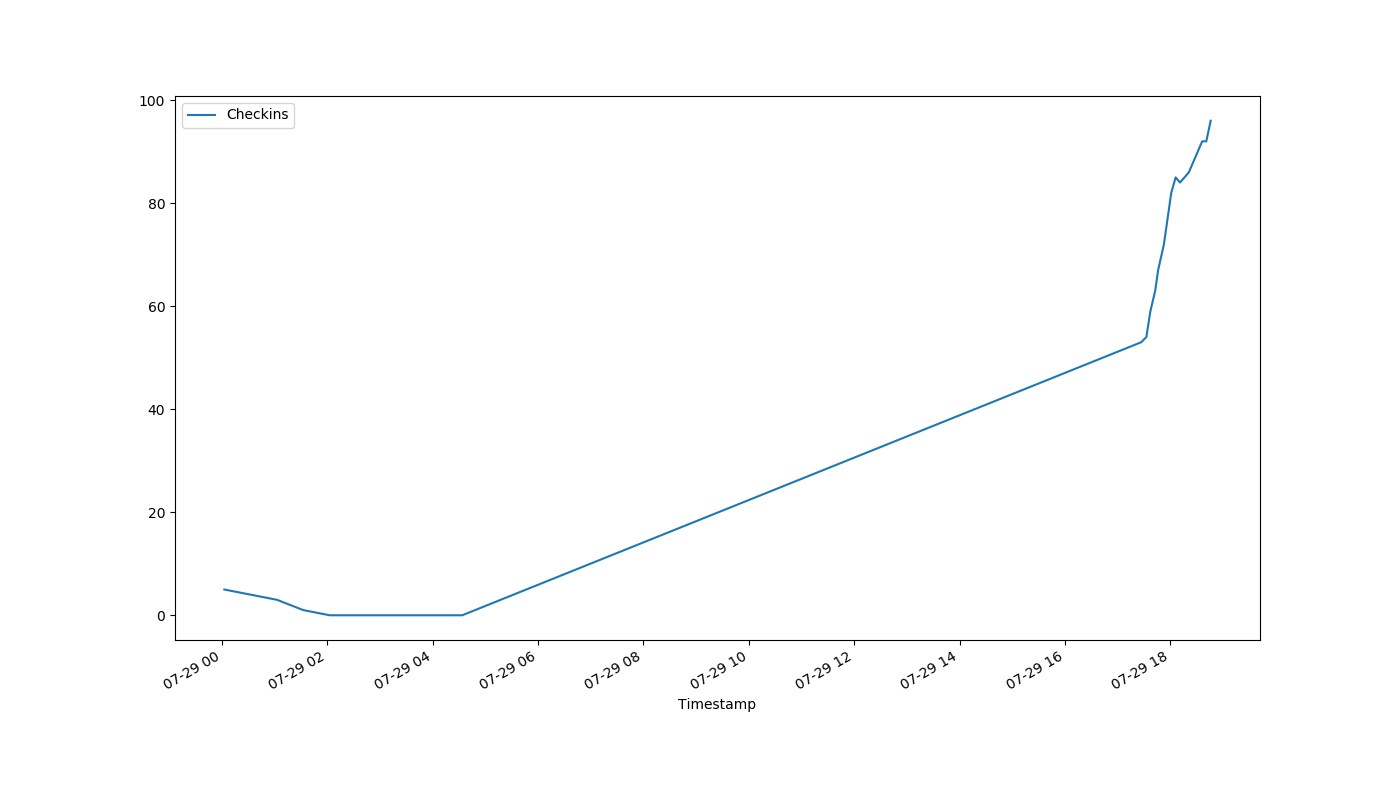
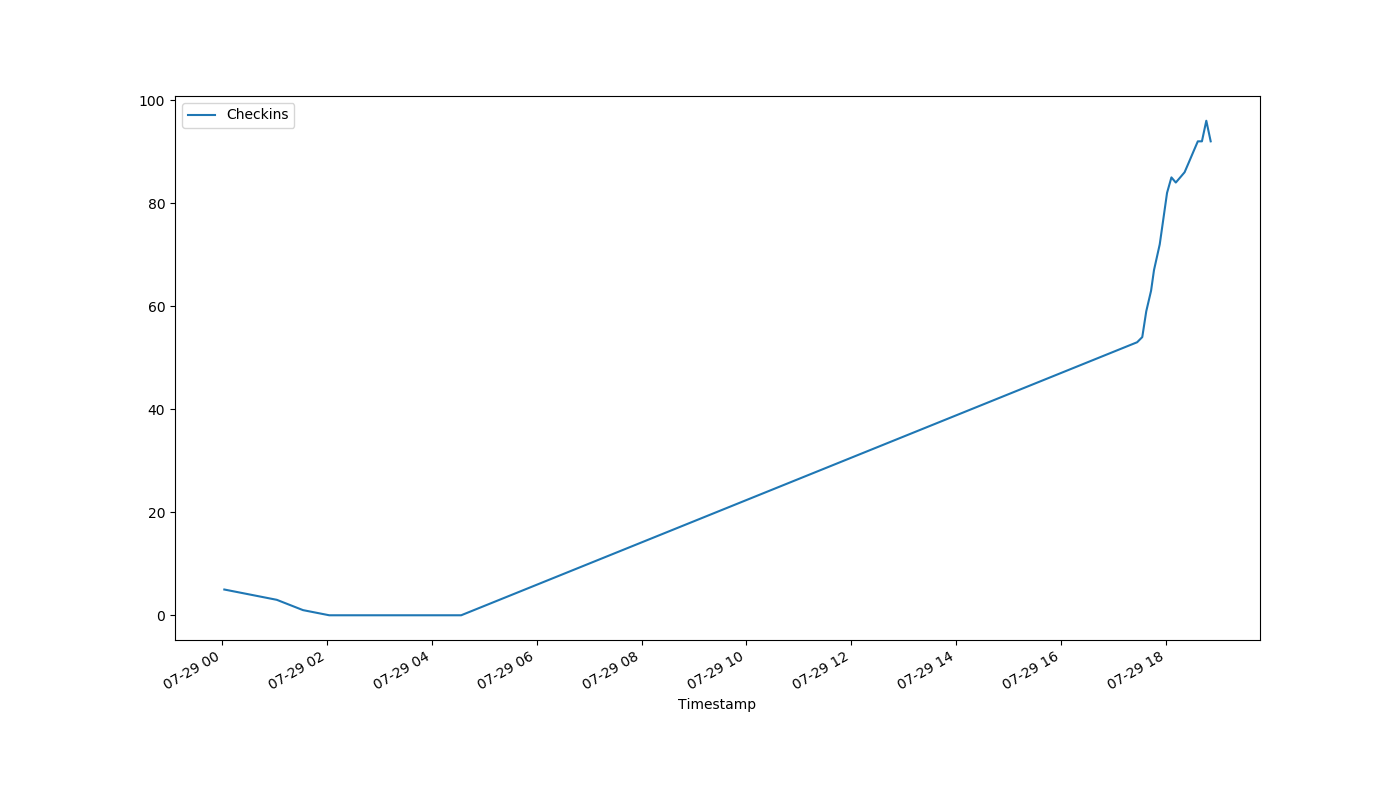
auto-Jul-29-18:52:33

diff --git a/index.html b/index.html
@@ -1,1 +1,1 @@
-<!DOCTYPE html><html><head><meta http-equiv="refresh" content="30"><link rel='stylesheet' href='holmcurrent.css'></head><body><p id='count'>96</p><div id='graph-wrap'><img id='graph' src='holmgraph-Jul-29.png'></div><p id='updated'>Last updated 18:46:02 / 18:46:01</p></body></html>
+<!DOCTYPE html><html><head><meta http-equiv="refresh" content="30"><link rel='stylesheet' href='holmcurrent.css'></head><body><p id='count'>92</p><div id='graph-wrap'><img id='graph' src='holmgraph-Jul-29.png'></div><p id='updated'>Last updated 18:52:02 / 18:51:01</p></body></html>
